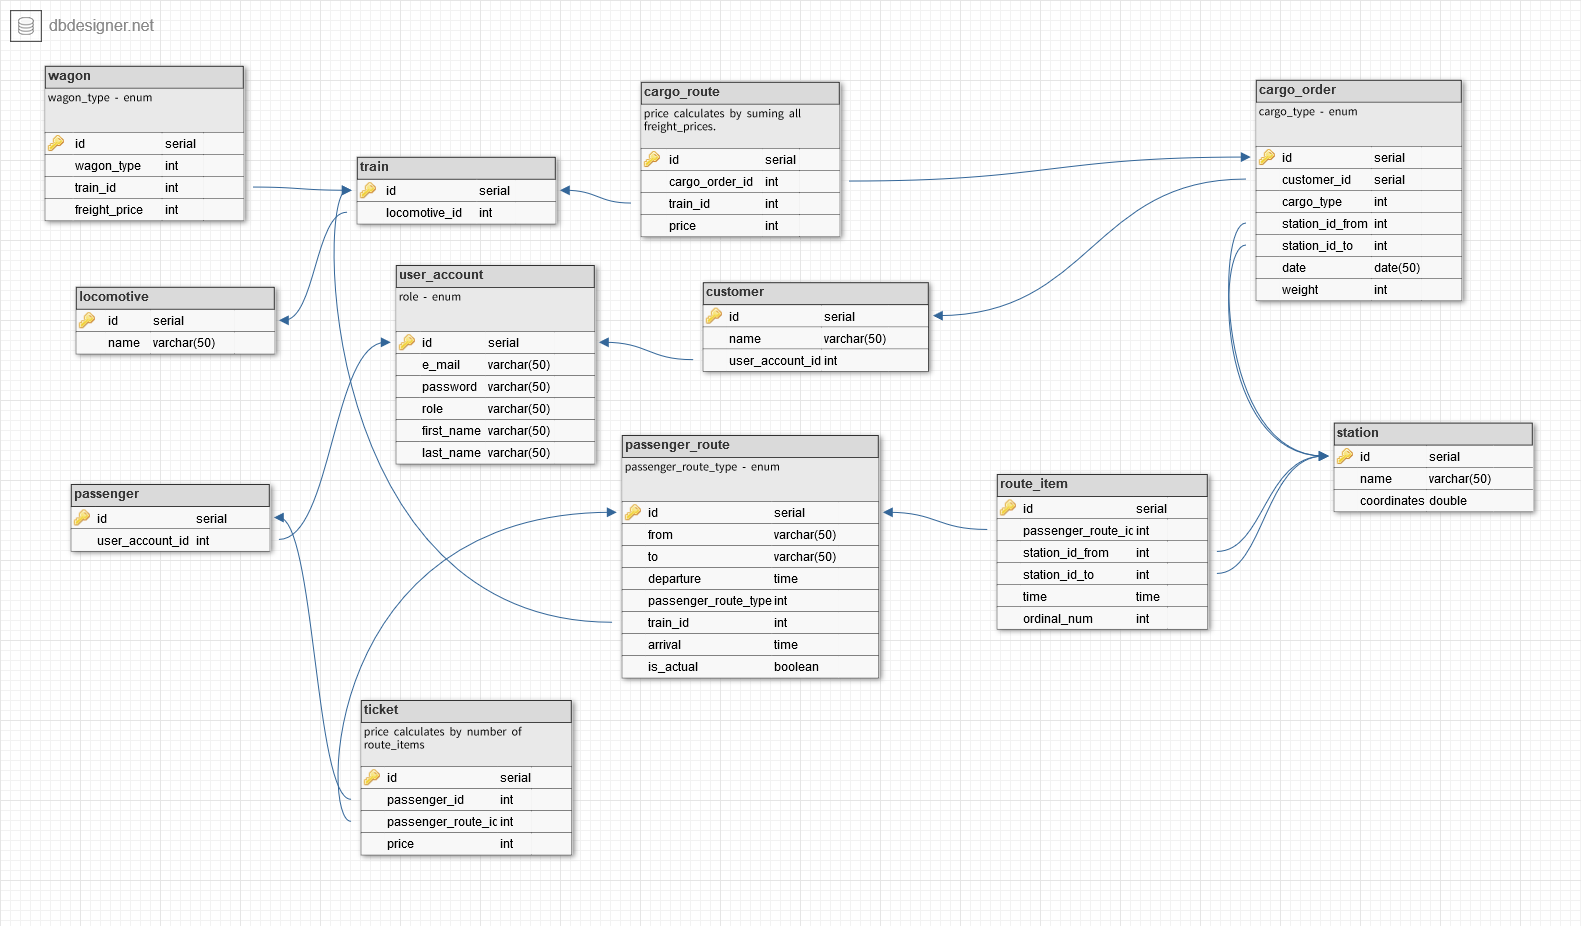
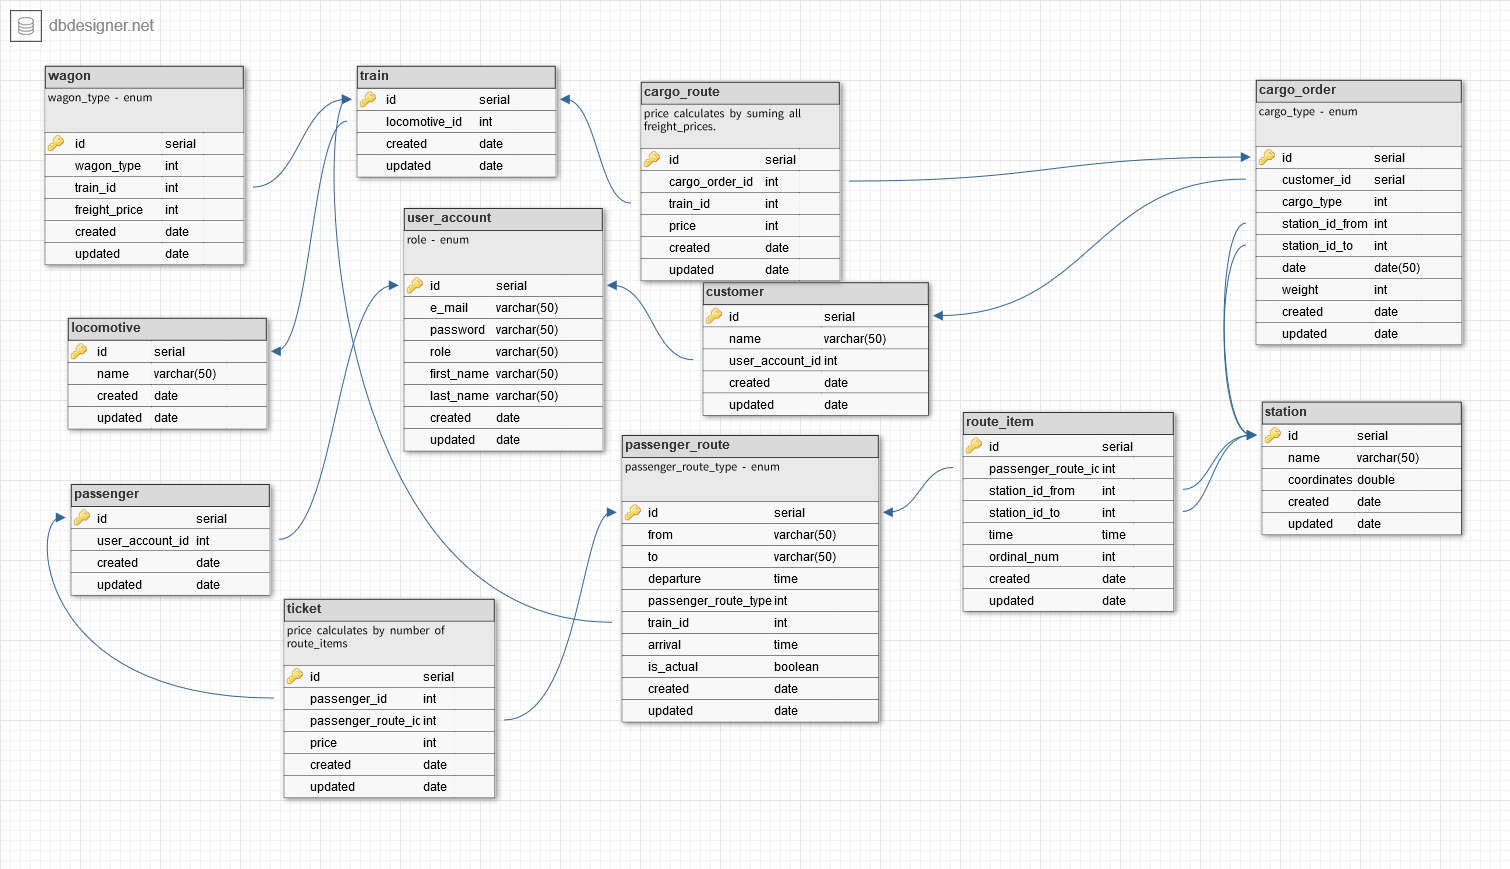
little of code, data model update

Changed region(s): [[0.0, 0.0, 0.996, 0.9321], [0.249, 0.5903, 0.3113, 0.6525], [0.6848, 0.2486, 0.747, 0.2796]]

diff --git a/dao-jdbc-impl/src/main/java/com/itacademy/jd2/ikarotki/rwmanager/dao/jdbc/impl/TicketDaoImpl.java b/dao-jdbc-impl/src/main/java/com/itacademy/jd2/ikarotki/rwmanager/dao/jdbc/impl/TicketDaoImpl.java
@@ -1,39 +1,120 @@
 package com.itacademy.jd2.ikarotki.rwmanager.dao.jdbc.impl;
 
+import java.sql.Connection;
+import java.sql.PreparedStatement;
+import java.sql.ResultSet;
+import java.sql.SQLException;
+import java.sql.Statement;
+import java.sql.Types;
+import java.util.Set;
+
 import com.itacademy.jd2.ikarotki.rwmanager.dao.api.ITicketDao;
 import com.itacademy.jd2.ikarotki.rwmanager.dao.api.entity.ITicket;
+import com.itacademy.jd2.ikarotki.rwmanager.dao.jdbc.impl.entity.Passenger;
 import com.itacademy.jd2.ikarotki.rwmanager.dao.jdbc.impl.entity.Ticket;
+import com.itacademy.jd2.ikarotki.rwmanager.dao.jdbc.impl.util.SQLExecutionException;
 
 public class TicketDaoImpl extends AbstractDaoImpl<ITicket, Integer> implements ITicketDao {
 
-    @Override
-    public ITicket createEntity() {
-        return new Ticket();
-    }
+	@Override
+	public ITicket createEntity() {
+		return new Ticket();
+	}
 
-   
-
-    @Override
-    protected String getTableName() {
-        return "ticket";
-    }
-
-
+	@Override
+	protected String getTableName() {
+		return "ticket";
+	}
 
 	@Override
 	public void update(ITicket entity) {
-		// TODO Auto-generated method stub
-		
+		try (Connection c = getConnection();
+				PreparedStatement pStmt = c.prepareStatement(String.format(
+						"update %s set passenger_id=?, updated=?, passenger_route_id=?, price=? where id=?",
+						getTableName()))) {
+			c.setAutoCommit(false);
+			try {
+				pStmt.setInt(1, entity.getPassenger().getId());
+				pStmt.setObject(2, entity.getUpdated(), Types.TIMESTAMP);
+				pStmt.setInt(3, entity.getPassengerRoute().getId());
+				pStmt.setDouble(4, entity.getPrice());
+				pStmt.setInt(5, entity.getId());
+				pStmt.executeUpdate();
+				c.commit();
+			} catch (final Exception e) {
+				c.rollback();
+				throw new RuntimeException(e);
+			}
+
+		} catch (final SQLException e) {
+			throw new SQLExecutionException(e);
+		}
 	}
-
-
 
 	@Override
 	public void insert(ITicket entity) {
-		// TODO Auto-generated method stub
-		
+		try (Connection c = getConnection();
+				PreparedStatement pStmt = c.prepareStatement(String.format(
+						"insert into %s (pasenger_id, created, updated, passenger_route_id, price) values(?,?,?,?,?)",
+						getTableName()), Statement.RETURN_GENERATED_KEYS)) {
+			c.setAutoCommit(false);
+			try {
+				pStmt.setInt(1, entity.getPassenger().getId());
+				pStmt.setObject(2, entity.getCreated(), Types.TIMESTAMP);
+				pStmt.setObject(3, entity.getUpdated(), Types.TIMESTAMP);
+				pStmt.setInt(4, entity.getPassengerRoute().getId());
+				pStmt.setDouble(5, entity.getPrice());
+
+				pStmt.executeUpdate();
+
+				final ResultSet rs = pStmt.getGeneratedKeys();
+				rs.next();
+				final int id = rs.getInt("id");
+
+				rs.close();
+				entity.setId(id);
+
+				c.commit();
+			} catch (final Exception e) {
+				c.rollback();
+				throw new RuntimeException(e);
+			}
+
+		} catch (final SQLException e) {
+			throw new SQLExecutionException(e);
+		}
+
 	}
 
+	@Override
+	protected ITicket parseRow(final ResultSet resultSet, final Set<String> columns) throws SQLException {
+		final ITicket entity = createEntity();
+		entity.setId((Integer) resultSet.getObject("id"));
+		// entity.setPassengerId((Integer) resultSet.getInt("passenger_id"));
+		entity.setCreated(resultSet.getTimestamp("created"));
+		entity.setUpdated(resultSet.getTimestamp("updated"));
+		// entity.setPassengerRouteId((Integer) resultSet.getInt("passenger_route_id"));
+		entity.setPrice((Double) resultSet.getDouble("price"));
 
+		Integer passengerId = resultSet.getInt("passenger_id");
+		if (passengerId != null) {
+			Passenger passenger = new Passenger();
+			passenger.setId(passengerId);
+			if (columns.contains("passenger")) {
+
+			}
+			// final Integer brandId = (Integer) resultSet.getObject("brand_id");
+			// if (brandId != null) {
+			// final Brand brand = new Brand();
+			// brand.setId(brandId);
+			// if (columns.contains("brand_name")) {
+			// brand.setName(resultSet.getString("brand_name"));
+			// }
+			// entity.setBrand(brand);
+			// }
+
+		}
+		return entity;
+	}
 
 }

diff --git a/dao-jdbc-impl/src/main/java/com/itacademy/jd2/ikarotki/rwmanager/dao/jdbc/impl/entity/Ticket.java b/dao-jdbc-impl/src/main/java/com/itacademy/jd2/ikarotki/rwmanager/dao/jdbc/impl/entity/Ticket.java
@@ -1,11 +1,31 @@
 package com.itacademy.jd2.ikarotki.rwmanager.dao.jdbc.impl.entity;
 
+import com.itacademy.jd2.ikarotki.rwmanager.dao.api.entity.IPassenger;
+import com.itacademy.jd2.ikarotki.rwmanager.dao.api.entity.IPassengerRoute;
 import com.itacademy.jd2.ikarotki.rwmanager.dao.api.entity.ITicket;
 
-public class Ticket extends BaseEntity implements ITicket{
+public class Ticket extends BaseEntity implements ITicket {
 	private Integer passengerId;
 	private Integer passengerRouteId;
-	private Integer price;
+	private Double price;
+	IPassenger passenger;
+	IPassengerRoute passengerRoute;
+
+	public IPassenger getPassenger() {
+		return passenger;
+	}
+
+	public void setPassenger(IPassenger passenger) {
+		this.passenger = passenger;
+	}
+
+	public IPassengerRoute getPassengerRoute() {
+		return passengerRoute;
+	}
+
+	public void setPassengerRoute(IPassengerRoute passengerRoute) {
+		this.passengerRoute = passengerRoute;
+	}
 
 	public int getPassengerId() {
 		return passengerId;
@@ -23,11 +43,11 @@ public class Ticket extends BaseEntity implements ITicket{
 		this.passengerRouteId = passengerRouteId;
 	}
 
-	public int getPrice() {
+	public Double getPrice() {
 		return price;
 	}
 
-	public void setPrice(int price) {
+	public void setPrice(Double price) {
 		this.price = price;
 	}
 

diff --git a/dao-api/src/main/java/com/itacademy/jd2/ikarotki/rwmanager/dao/api/entity/ITicket.java b/dao-api/src/main/java/com/itacademy/jd2/ikarotki/rwmanager/dao/api/entity/ITicket.java
@@ -2,16 +2,19 @@ package com.itacademy.jd2.ikarotki.rwmanager.dao.api.entity;
 
 import com.itacademy.jd2.ikarotki.rwmanager.dao.api.entity.base.IBaseEntity;
 
-public interface ITicket extends IBaseEntity{
-	public int getPassengerId();
+public interface ITicket extends IBaseEntity {
 
-	public void setPassengerId(int passengerId);
+	
 
-	public int getPassengerRouteId();
+	public Double getPrice();
 
-	public void setPassengerRouteId(int passengerRouteId);
+	public void setPrice(Double price);
 
-	public int getPrice();
+	public IPassenger getPassenger();
 
-	public void setPrice(int price);
+	public void setPassenger(IPassenger passenger);
+
+	public IPassengerRoute getPassengerRoute();
+
+	public void setPassengerRoute(IPassengerRoute passengerRoute);
 }
